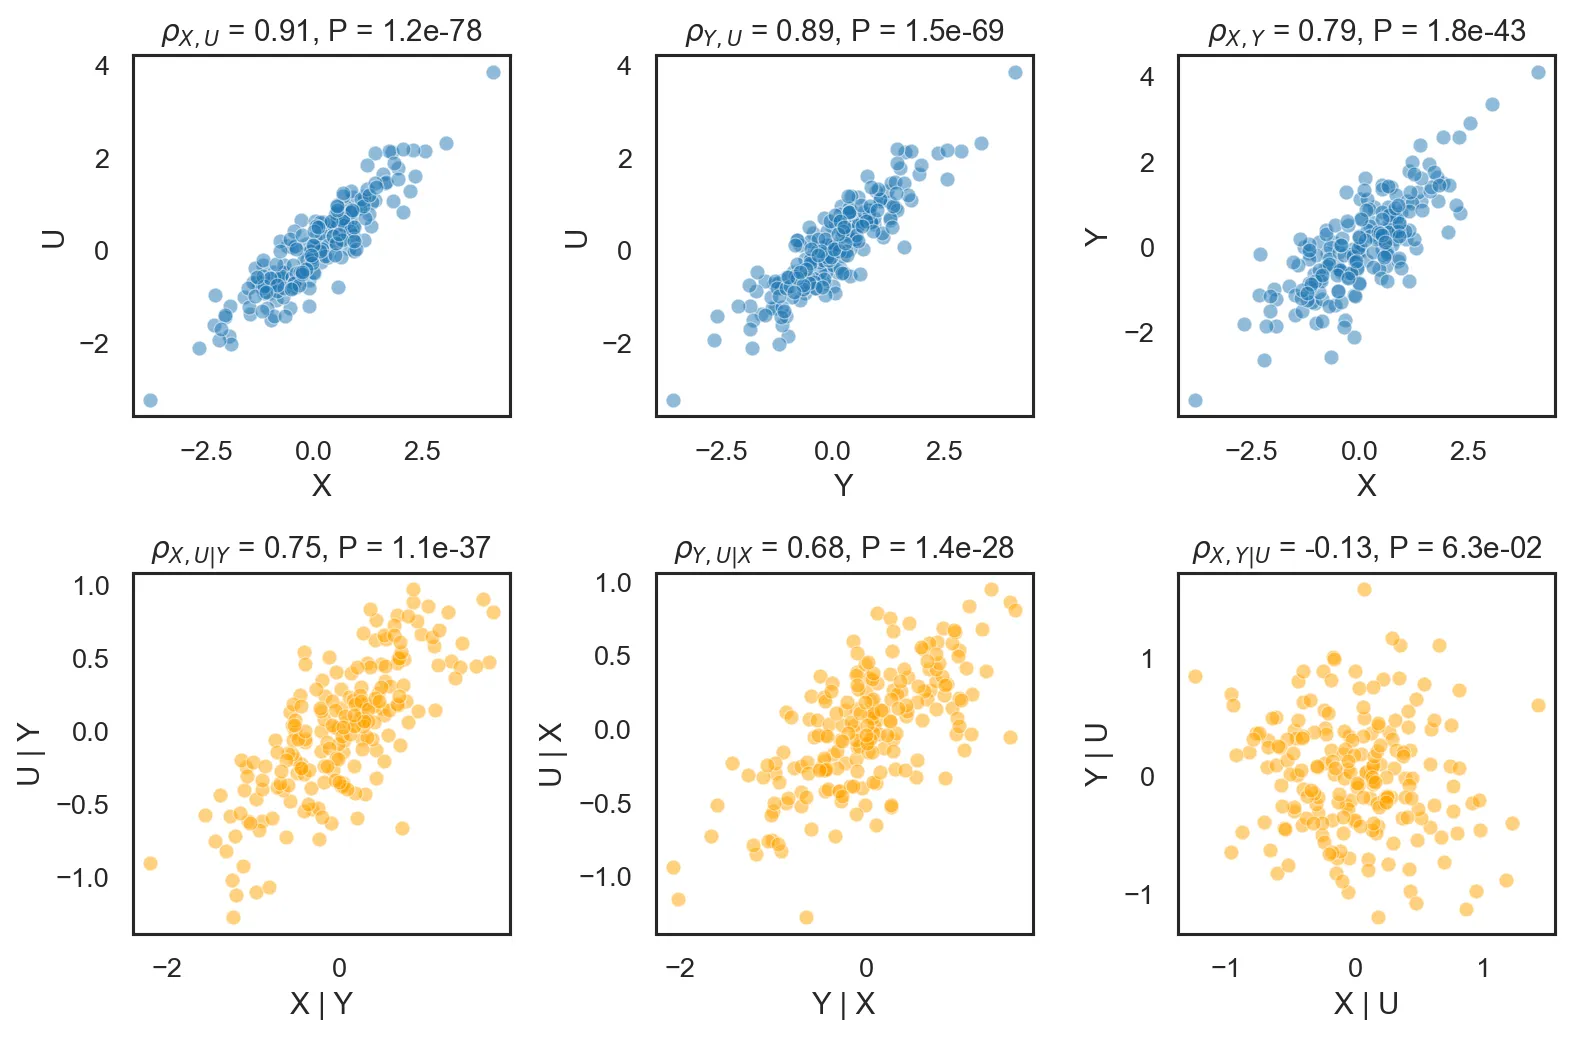
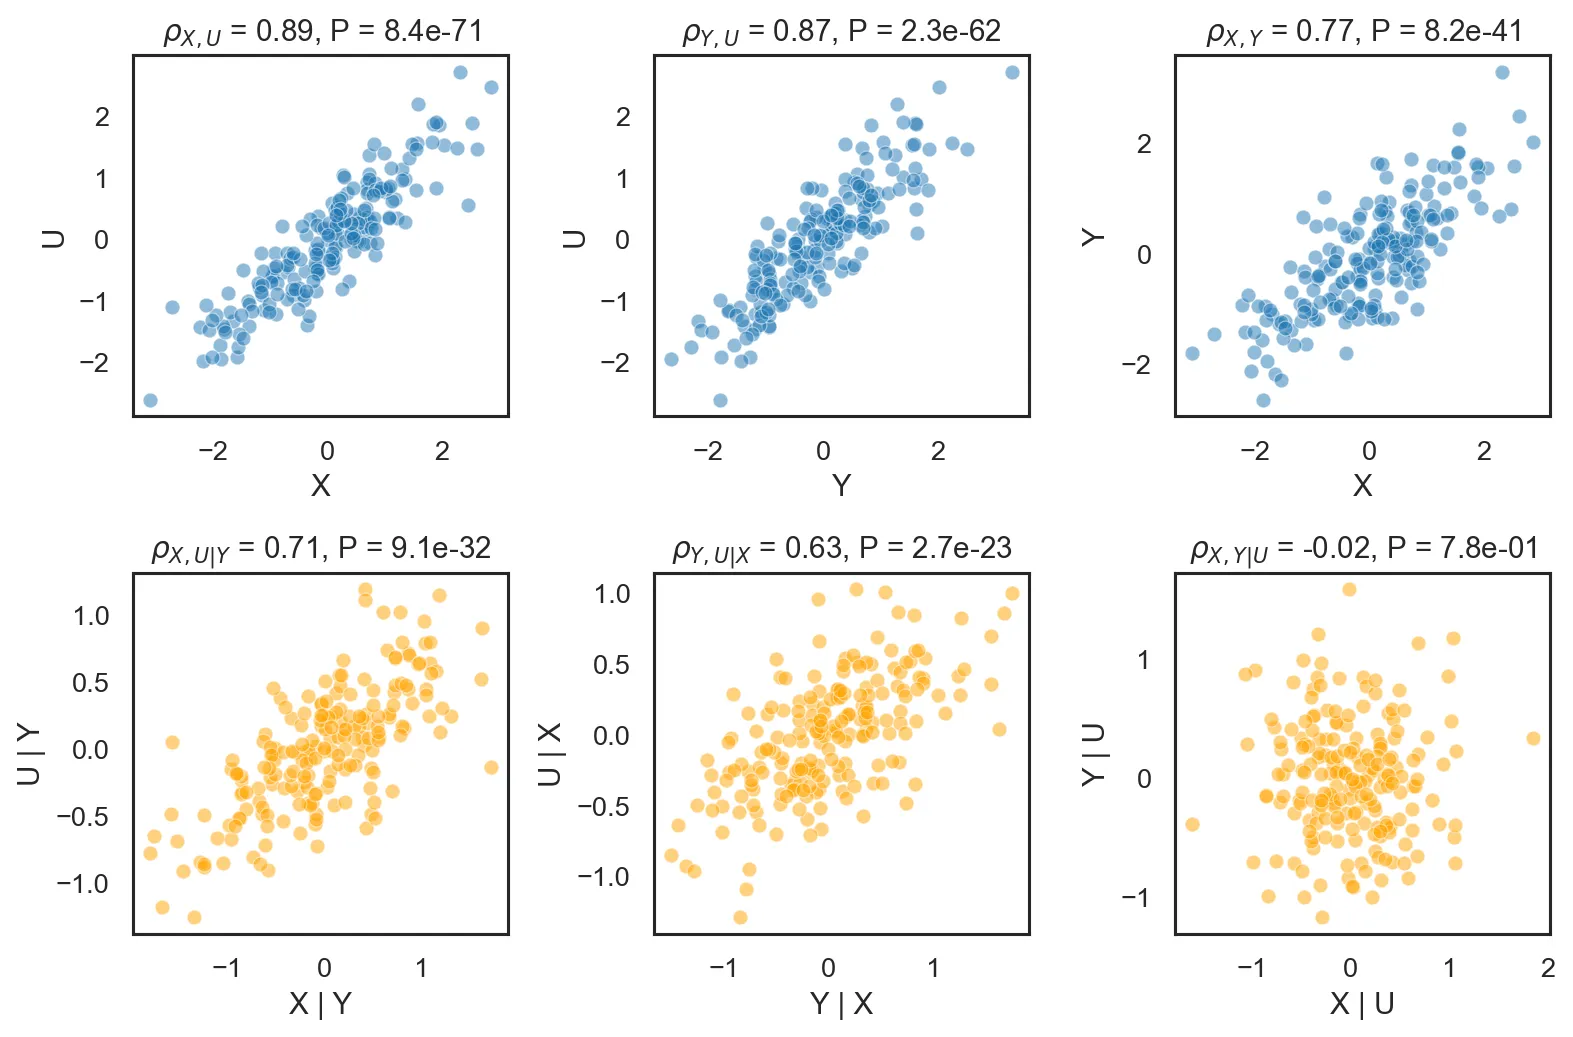
chore: continue writing

diff --git a/assets/python/2025-05-29-precision-matrix/main.py b/assets/python/2025-05-29-precision-matrix/main.py
@@ -81,15 +81,13 @@ plt.show()
 # %%
 np.random.seed(42)
 
-v_u = 1
-v_xy = 0.5
-n = 200
+N = 200
 
 df = pd.DataFrame(
     {
-        "X": np.random.normal(0, v_xy, n),
-        "U": np.random.normal(0, v_u, n),
-        "Y": np.random.normal(0, v_xy, n),
+        "U": np.random.normal(0, 1, N),
+        "X": np.random.normal(0, 0.5, N),
+        "Y": np.random.normal(0, 0.5, N),
     }
 )
 df["X"] = df["U"] + df["X"]
@@ -149,3 +147,24 @@ plt.tight_layout()
 save_fig(plt.gcf(), "partial_correlations")
 
 # %%
+np.random.seed(42)
+
+N = 200
+
+df = pd.DataFrame(
+    {
+        "U": np.random.normal(0, 1, N),
+        "X": np.random.normal(0, 0.5, N),
+        "Y": np.random.normal(0, 0.5, N),
+    }
+)
+df["X"] = df["U"] + df["X"]
+df["Y"] = df["U"] + df["Y"]
+
+centered_df = df - df.mean()
+covariance = np.dot(centered_df.T, centered_df) / (N - 1)
+precision = np.linalg.inv(covariance)
+normalization_factors = np.sqrt(np.outer(np.diag(precision), np.diag(precision)))
+partial_correlations = precision / normalization_factors
+
+print(np.round(partial_correlations, 2))

diff --git a/_posts/2025-05-29-precision-matrix.md b/_posts/2025-05-29-precision-matrix.md
@@ -10,7 +10,9 @@ mermaid:
   enabled: true
 ---
 
-# Warm up
+I will be providing snippets of code along with the text. If you are still curious about the nitty-gritty, all the code is available [on Github](https://github.com/hclimente/hclimente.github.io/blob/main/assets/python/2025-05-29-precision-matrix/).
+
+# Warm up: refreshing our stats
 
 Let's start with some basic definitions. The **variance** of a random variable $$X$$ is defined as
 
@@ -18,7 +20,7 @@ $$
 \sigma_X^2 = \mathbf{E}(X - \mathbf{E}(X))^2
 $$
 
-It takes values in $$(0, \infty)$$ that measures how disperse the outcomes of the RV are from its mean. Notably, the **(scalar) precision** is defined as $$\frac 1 \sigma_X$$.
+It takes values in $$(0, \infty)$$ that measures how disperse the outcomes of the RV are from its mean. Notably, the **(scalar) precision** is defined as $$\frac 1 \sigma_X^2$$. Note that this ties to our usual intuition of precision: if a variable has low variance, it will be easier for us to guess the value TODO?
 
 The **covariance** between two random variables $$X_1$$ and $$X_2$$ is defined as:
 
@@ -97,25 +99,7 @@ $$
 
 The entries $$-\rho_{X_., X_. \mid \dots}$$ in the middle matrix are **partial correlations**. Partial correlations quantify the correlation between two variables after removing the linear effects of the remaining variables. Partial correlations live in $$[-1, 1]$$.
 
-# Partial correlations
-
-Let's dive deeper into partial correlations. Let's imagine the following causal structure:
-
-```mermaid
----
-config:
-  layout: elk
-  look: handDrawn
----
-flowchart LR
-    subgraph "Causal structure"
-        direction TB
-        U --> X
-        U --> Y
-    end
-```
-
-where
+Let's bring this point home with a toy example on 3 variables: $$U$$, $$X$$, and $$Y$$. $$X$$ and $$Y$$ are related to $$U$$ as follows:
 
 $$
 U \sim N(0, 1)
@@ -142,3 +126,49 @@ These are the correlations and partial correlations of 200 random trios:
 </div>
 
 Partial correlations correctly identify that $$U$$ is correlated to both $$X$$ and $$Y$$, and in turn that those are not correlated once we account for the effect of $$U$$. Note that while the true correlation between $$X$$ and $$U$$ is $$\rho_{X, U}$$, $$\rho_{X, U \mid Y} \neq \rho_{X, U}$$. This is because $$Y$$ contains an additional noise term that makes the adjustment imperfect.
+
+# Estimating the precision matrix
+
+Let's touch some code now. I computed the correlations in the toy example above by implementing the literal definition: fitting a linear model for each pair of variables and computing the correlation between the residuals. However, we can also use our knowledge of the precision matrix to compute the same result more efficiently:
+
+```python
+import numpy as np
+import pandas as pd
+
+np.random.seed(42)
+
+N = 200
+
+df = pd.DataFrame(
+    {
+        "U": np.random.normal(0, 1, N),
+        "X": np.random.normal(0, 0.5, N),
+        "Y": np.random.normal(0, 0.5, N),
+    }
+)
+df["X"] = df["U"] + df["X"]
+df["Y"] = df["U"] + df["Y"]
+
+# compute the covariance matrix
+df = df - df.mean()
+covariance = np.dot(df.T, df) / (N - 1)
+
+# compute the precision matrix
+precision = np.linalg.inv(covariance)
+
+# factorize it to get the partial correlations
+norm_matrix = np.sqrt(np.outer(np.diag(precision), np.diag(precision)))
+partial_corrs = precision / norm_matrix
+
+print(np.round(partial_corrs, 2))
+```
+
+```
+[[ 1.   -0.75  0.13]
+ [-0.75  1.   -0.68]
+ [ 0.13 -0.68  1.  ]]
+```
+
+Two disclaimers are needed here. One is that this code will not work when $$\Sigma$$ is [non-invertible](https://en.wikipedia.org/wiki/Singular_matrix). In those cases, [the **pseudoinverse** matrix](https://en.wikipedia.org/wiki/Moore%E2%80%93Penrose_inverse) could take its place, although we would be moving away from the theory and hence we should be careful interpreting the results. The other is that the matrix inversion will be inaccurate when $$\Sigma$$ is [ill-conditioned](https://en.wikipedia.org/wiki/Condition_number). In those cases, [regularization](https://scikit-learn.org/stable/modules/covariance.html) can help.
+
+<!-- TODO regularization: https://scikit-learn.org/stable/modules/covariance.html -->
